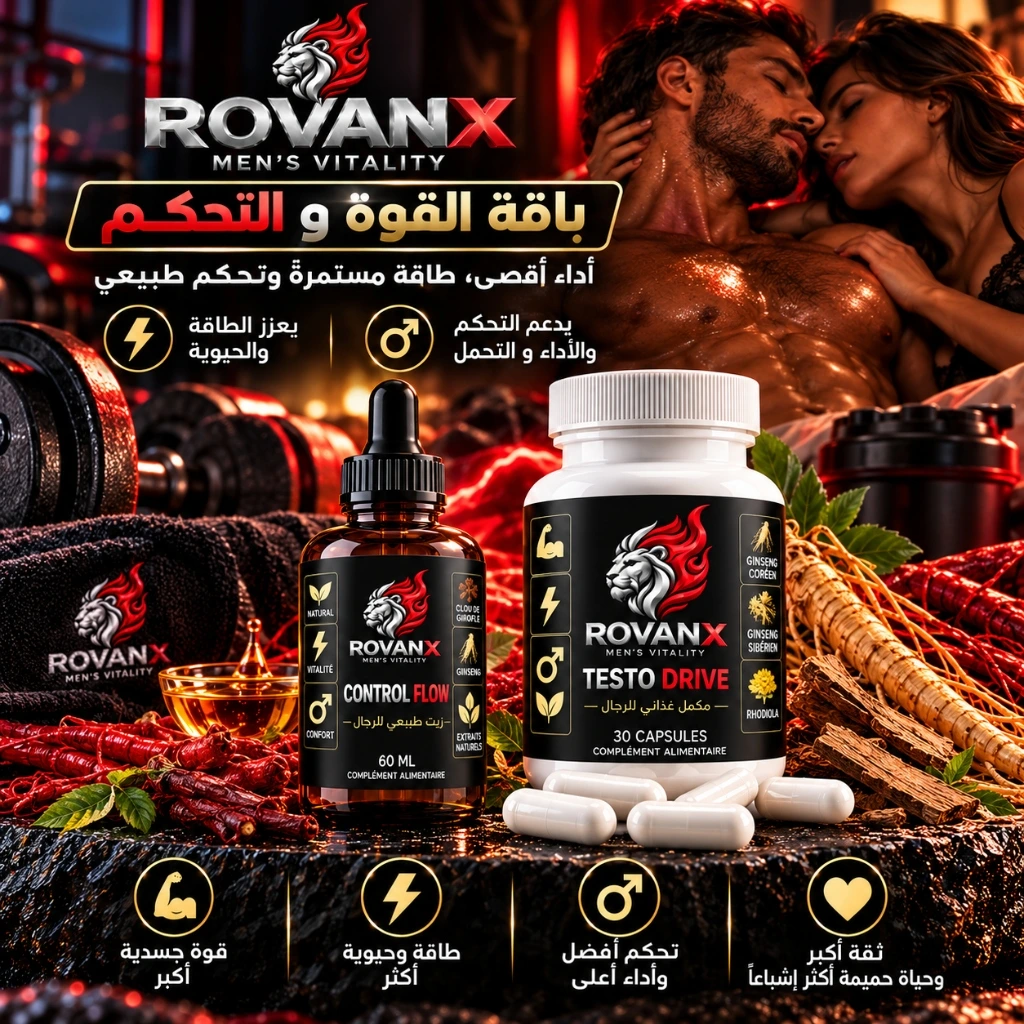
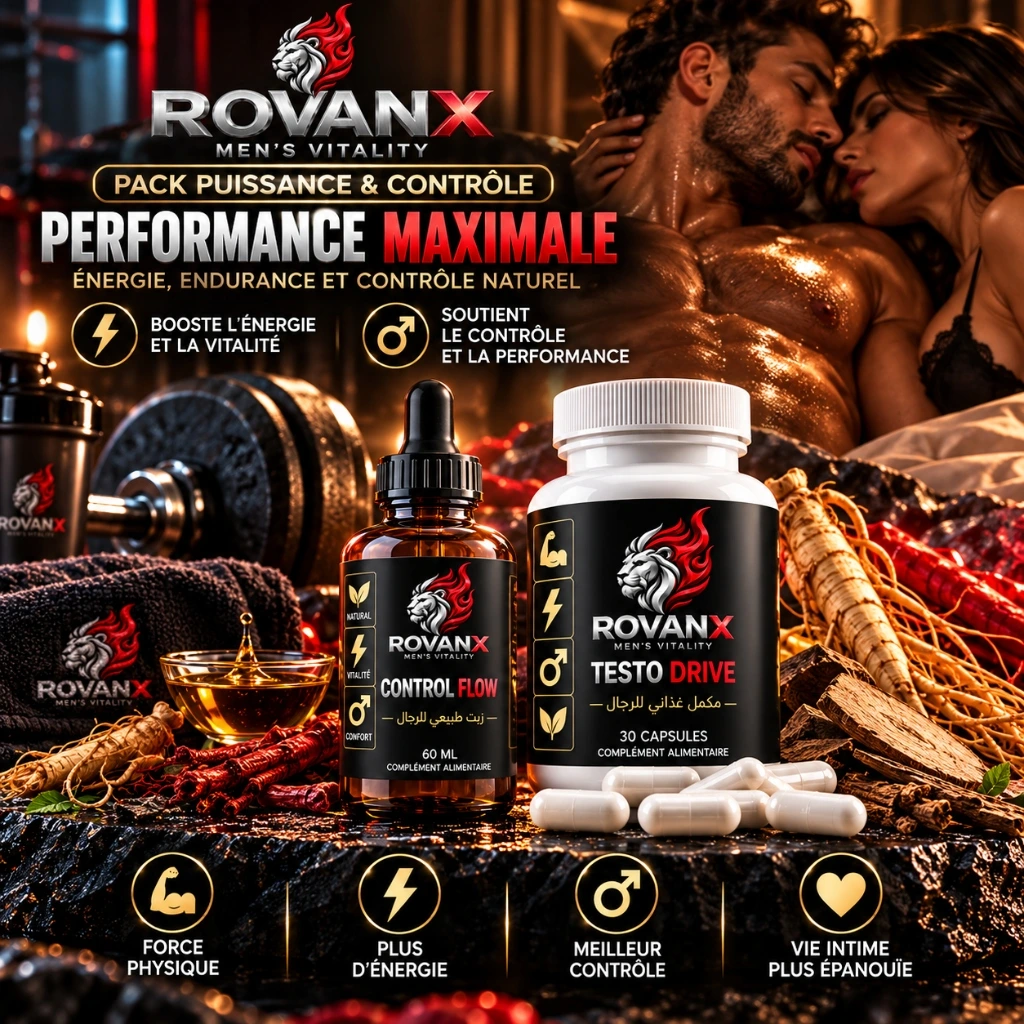
feat(bundles): add official French poster for Pack Puissance & Controle

diff --git a/src/lib/product-visuals.ts b/src/lib/product-visuals.ts
@@ -10,8 +10,12 @@ const productVisuals: Record<string, ProductVisual[]> = {
       alt: "Control Flow - flacon de 60 ml"
     },
     {
-      src: "/products/rovanx-pack-puissance-ar.webp?v=4",
+      src: "/products/rovanx-pack-puissance-ar.webp?v=5",
       alt: "باقة القوة و التحكم - ROVANX"
+    },
+    {
+      src: "/products/rovanx-pack-puissance-fr.webp?v=5",
+      alt: "Pack Puissance & Contrôle - ROVANX"
     }
   ],
   "rovanx-prostate": [

diff --git a/src/components/store/bundles-view.tsx b/src/components/store/bundles-view.tsx
@@ -35,8 +35,8 @@ type RawBundle = {
 
 const BUNDLE_IMAGES: Record<string, { ar?: string; default: string }> = {
   "rovanx-pack-puissance": {
-    ar: "/products/rovanx-pack-puissance-ar.webp?v=4",
-    default: "/products/rovanx-pack-puissance-fr.webp?v=4"
+    ar: "/products/rovanx-pack-puissance-ar.webp?v=5",
+    default: "/products/rovanx-pack-puissance-fr.webp?v=5"
   },
   "rovanx-men-pack": {
     default: "/products/rovanx-men-pack.webp?v=3"
